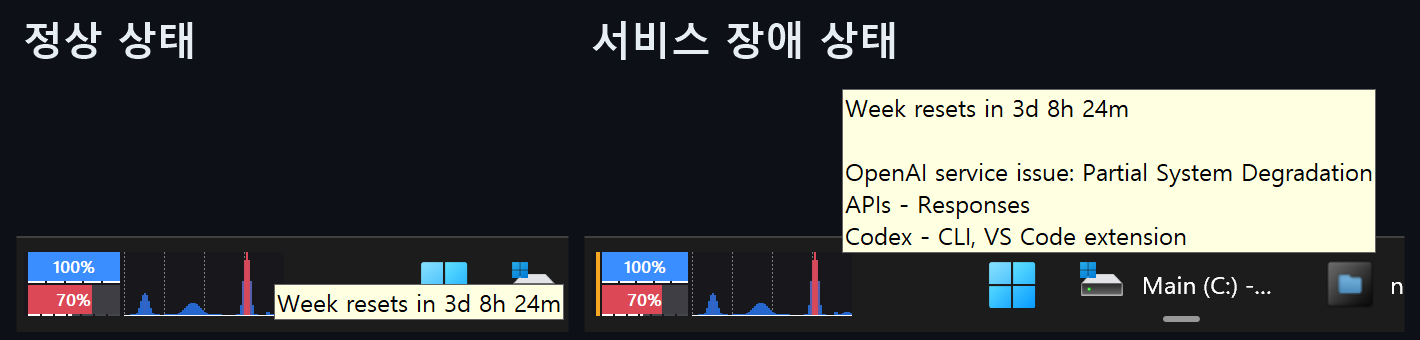
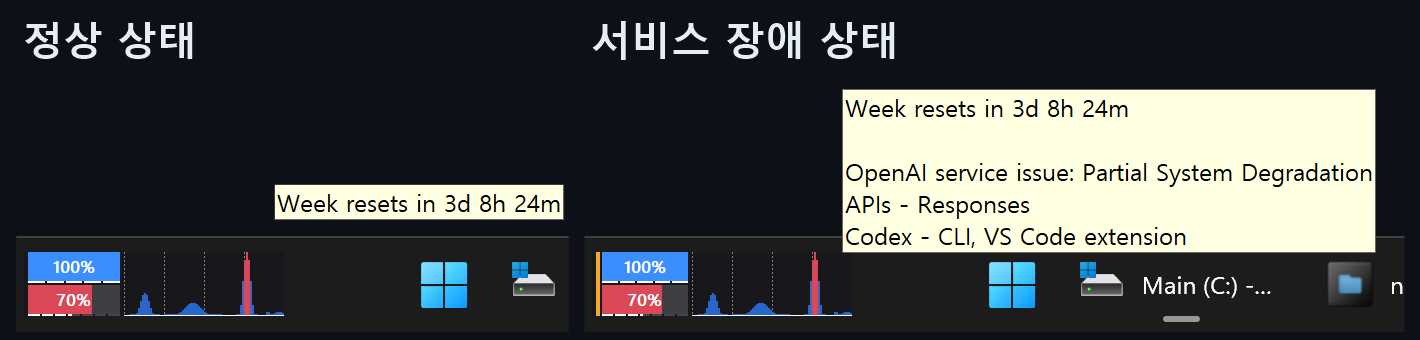
docs: move hero tooltip above taskbar to reveal Start button

Changed region(s): [[0.1859, 0.8235, 0.4028, 0.9412], [0.1859, 0.5294, 0.4028, 0.6471]]

diff --git a/README.ko.md b/README.ko.md
@@ -6,7 +6,7 @@
 
 CodexHp는 Windows 11의 ChatGPT 데스크톱 앱에서 Codex를 사용하는 사람들을 위한 작은 작업 표시줄 오버레이입니다. 다른 창을 열지 않아도 5시간·주간 한도의 남은 사용량, 초기화까지 남은 시간, 로컬 Codex 세션의 최근 활동, OpenAI 서비스 상태를 확인할 수 있습니다.
 
-![5H 잔여량 100%·주간 잔여량 70%의 예시 값을 적용한 실제 Windows 11 작업 표시줄 캡처: 주간 초기화 시간 툴팁이 표시된 정상 상태와, 주황색 표시등 및 영향 서비스 상세가 표시된 시뮬레이션 장애 상태를 나란히 보여줍니다.](docs/assets/readme/codexhp-taskbar.ko.png)
+![5H 잔여량 100%·주간 잔여량 70%의 예시 값을 적용한 Windows 11 작업 표시줄 캡처: 알아보기 쉽도록 주간 초기화 시간 툴팁을 작업 표시줄 위로 옮긴 정상 상태와, 주황색 표시등 및 영향 서비스 상세가 표시된 시뮬레이션 장애 상태를 나란히 보여줍니다.](docs/assets/readme/codexhp-taskbar.ko.png)
 
 **[최신 릴리스에서 설치 프로그램 받기](https://github.com/netics01/CodexHp/releases/latest)**
 

diff --git a/README.md b/README.md
@@ -6,7 +6,7 @@
 
 CodexHp is a compact taskbar overlay for people who use Codex in the ChatGPT desktop app on Windows 11. Without opening another window, you can see what remains in your 5-hour and weekly limits, when they reset, recent activity from local Codex sessions, and OpenAI service status.
 
-![Actual Windows 11 taskbar captures with example usage of 100% remaining for 5H and 70% for Week: normal operation with a weekly reset tooltip, alongside a simulated service incident with an orange stripe and affected-service details.](docs/assets/readme/codexhp-taskbar.png)
+![Windows 11 taskbar captures with example usage of 100% remaining for 5H and 70% for Week: normal operation with the weekly reset tooltip repositioned above the taskbar for clarity, alongside a simulated service incident with an orange stripe and affected-service details.](docs/assets/readme/codexhp-taskbar.png)
 
 **[Get the latest release](https://github.com/netics01/CodexHp/releases/latest)**
 
